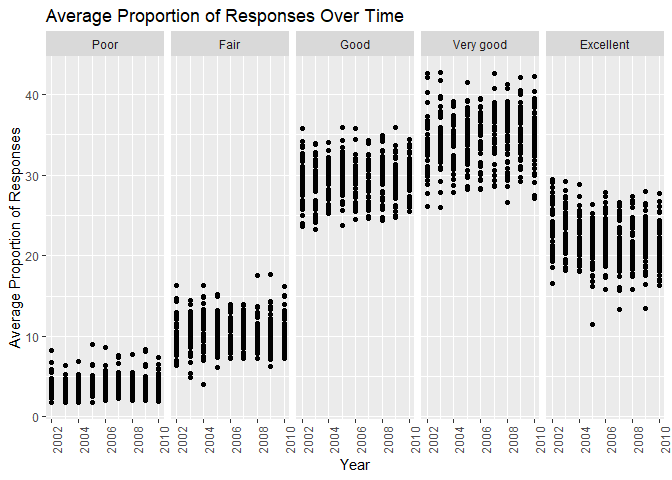
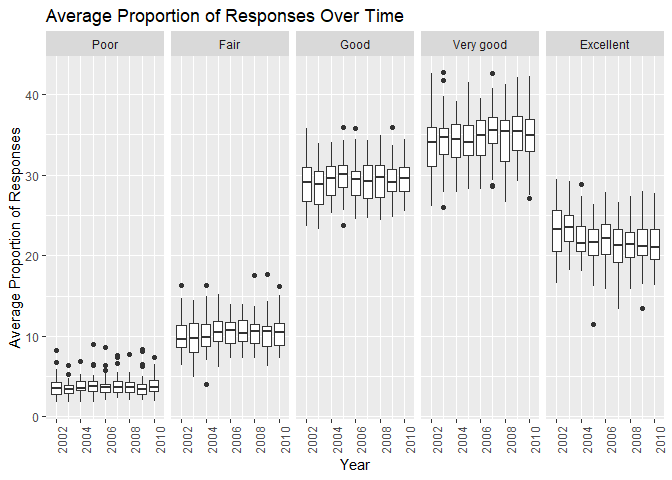
changed plot to box plot

diff --git a/p8105_hw3_rt2712.md b/p8105_hw3_rt2712.md
@@ -106,18 +106,18 @@ From the summary table above, it appears as if the mean number of respondents wh
 brfss_data %>%
   group_by(year, state, response) %>%
   summarize(mean = mean(proportion_responses)) %>% 
-  ggplot(aes(x = year, y = mean)) + 
-    geom_point() + 
+  ggplot(aes(x = year, y = mean, group = year)) + 
+    geom_boxplot() + 
     facet_grid(~response) +
     labs(x = "Year", y = "Average Proportion of Responses", title = "Average Proportion of Responses Over Time") +
     theme(axis.text.x = element_text(angle = 90))
 ```
 
-    ## Warning: Removed 21 rows containing missing values (geom_point).
+    ## Warning: Removed 21 rows containing non-finite values (stat_boxplot).
 
 ![](p8105_hw3_rt2712_files/figure-markdown_github/unnamed-chunk-5-1.png)
 
-In this 5 panel plot, we can see how the proportion of responses for each state varies across time. Also, since I plotted a point for each state, we can get an idea of how varied the data are within each category from year to year. Overall, there is not a lot of variation in mean response from year to year, but there is more variation based on location.
+In this 5 panel plot, we can see how the proportion of response for each level varies by location within a year. For the most part, the variation by location is consistent by response across time.
 
 Problem 2
 =========
@@ -289,15 +289,15 @@ ny_noaa_tidy = separate(ny_noaa, date, into = c("year", "month", "day"), sep = "
          tmax_degrees = as.numeric(tmax)/10, 
          tmin_degrees = as.numeric(tmin)/10,
          prcp_mm = prcp/10,
-         snow_mm = snow/10,
-         snwd_mm = snwd/10) %>%
+         snow_cm = snow/10,
+         snwd_cm = snwd/10) %>%
   select(-(prcp:tmin)) 
 
 head(ny_noaa_tidy)
 ```
 
     ## # A tibble: 6 x 9
-    ##   id    year month   day tmax_degrees tmin_degrees prcp_mm snow_mm snwd_mm
+    ##   id    year month   day tmax_degrees tmin_degrees prcp_mm snow_cm snwd_cm
     ##   <ch> <dbl> <dbl> <dbl>        <dbl>        <dbl>   <dbl>   <dbl>   <dbl>
     ## 1 US1~  2007    11     1           NA           NA      NA      NA      NA
     ## 2 US1~  2007    11     2           NA           NA      NA      NA      NA
@@ -306,20 +306,20 @@ head(ny_noaa_tidy)
     ## 5 US1~  2007    11     5           NA           NA      NA      NA      NA
     ## 6 US1~  2007    11     6           NA           NA      NA      NA      NA
 
-In the code above, I separated the data into columns for year, month, and day and transformed variables into numerical vectors. I spent a lot of time confused about the units for precipitation and temperature, and after Google, as well as some discussion forum insight, it seems as if the units are in tenths of a millimeter for precipitation and tenths of a degree (Celsius) for temperature. While these units might make sense when we are interested in small changes such as rainfall per minute, it does not make sense to report data for an entire day in these units, so I changed the units to millimeters and degrees Celsius. Additionally, it seems as if some of the temperature readings are inaccurate. Part of the reason I was struggling to figure out the units on temperature in particular is because the max temperature (even after correcting for tenths of a degree) is 60 degrees Celsius for 34 observations. A cursory web search indicating that the maximum recorded air temperature on Earth is only 57.6 degrees implies some sort of instrument or data input error. The fact that these observations are clustered together for a single station in August and September of 2008 supports this hypothesis.
+In the code above, I separated the data into columns for year, month, and day and transformed variables into numerical vectors. The units are in tenths of a millimeter for precipitation, millimeters for snow, and tenths of a degree (Celsius) for temperature. While these units might make sense when we are interested in small changes such as rainfall per minute, it does not make sense to report data for an entire day in these units, so I changed the units to millimeters, centimeters, and degrees Celsius. Additionally, it seems as if some of the temperature readings are inaccurate. Originally, I was struggling to figure out the units on temperature in particular because the max temperature (even after correcting for tenths of a degree) is 60 degrees Celsius for 34 observations. A cursory web search indicating that the maximum recorded air temperature on Earth is only 57.6 degrees implies some sort of instrument or data input error. The fact that these observations are clustered together for a single station in August and September of 2008 supports this hypothesis.
 
 **What are the most commonly observed values for snowfall and why?**
 
 ``` r
 ny_noaa_tidy %>%
-  group_by(snow_mm) %>%
+  group_by(snow_cm) %>%
   summarize(n=n()) %>%
   arrange(-n) %>%
   head() %>%
   knitr::kable()
 ```
 
-|  snow\_mm|        n|
+|  snow\_cm|        n|
 |---------:|--------:|
 |       0.0|  2008508|
 |        NA|   381221|
@@ -351,7 +351,7 @@ ny_noaa_tidy %>%
 
 **Two-panel plot showing:**
 *(i) tmax vs tmin for the full dataset,
-*(ii) distribution of snowfall values &gt; 0 and &lt; 100 separately by year
+*(ii) distribution of snowfall values &gt; 0 and &lt; 100 mm separately by year
 
 ``` r
 library(hexbin)
@@ -371,12 +371,12 @@ temp_plot = ny_noaa_tidy %>%
   labs(x = "Minimum temperature (Celsius)", y = "Maximum temperature (Celsius)", title = "Density Plot of Daily High and Low Temperatures") 
 
 snow_plot = ny_noaa_tidy %>%
-  select(snow_mm, year) %>%
+  select(snow_cm, year) %>%
   drop_na %>%
-  filter(snow_mm > 0 & snow_mm < 10) %>%
-  ggplot(aes(x = year, y = snow_mm, group = year)) +
+  filter(snow_cm > 0 & snow_cm < 10) %>%
+  ggplot(aes(x = year, y = snow_cm, group = year)) +
   geom_violin() +
-  labs(x = "Year", y = "Snowfall (mm)", title = "Distribution of Snowfall Across Time")
+  labs(x = "Year", y = "Snowfall (cm)", title = "Distribution of Snowfall Across Time")
 
 library(gridExtra)
 ```
@@ -396,4 +396,4 @@ grid.arrange(temp_plot, snow_plot, nrow = 2, top = "New York Temperature and Sno
 
 The plots above show New York temperature and snowfall data. In the temperature plot, average temperature minima and maxima are positively correlated as expected. The yellow/green areas show that most of the time, these temperatures are highly linearly correlated. Rarer temperature events are in the dark blue areas of the plot. Many of the outliers are more likely errors instead of instances of extreme temperatures.
 
-The snowfall data plot shows that the amount snowfall each year in New York is consistent from year to year. I chose to display these data as a violin plot to note an interesting feature: the bulges in the graph at 1.3, 2.5, 5.0, and 7.5 mm. As noted before, these values correspond to 1/2, 1, 2, and 3 inches. Therefore, it can be concluded that when reporting the amount of snowfall, the data collectors rounded to the nearest inch for snowfall ≥1 inch and the nearest 1/2 inch for snowfall &lt;1 inch.
+The snowfall data plot shows that the amount snowfall each year in New York is consistent from year to year. I chose to display these data as a violin plot to note an interesting feature: the bulges in the graph at 1.3, 2.5, 5.0, and 7.5 cm. As noted before, these values correspond to 1/2, 1, 2, and 3 inches. Therefore, it can be concluded that when reporting the amount of snowfall, the data collectors rounded to the nearest inch for snowfall ≥1 inch and the nearest 1/2 inch for snowfall &lt;1 inch.
